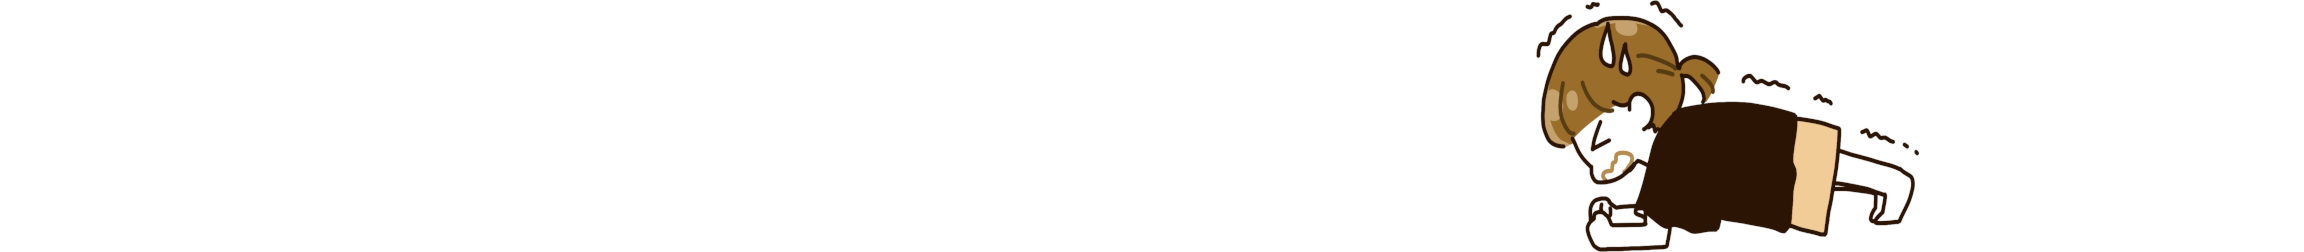
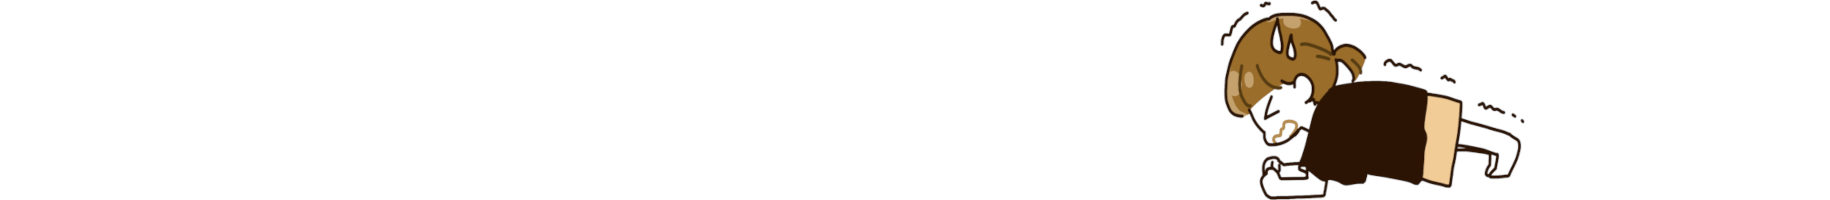
イラストとか修正

diff --git a/index.html b/index.html
@@ -32,14 +32,18 @@
                     </v-expansion-panel>
                     <v-expansion-panel>
                         <a href="https://www.ac-illust.com/main/detail.php?id=2275137&word=%E3%83%97%E3%83%A9%E3%83%B3%E3%82%AF%E3%80%80%E5%A5%B3%E6%80%A7"
-                            target="_blank">イラスト素材</a>
+                            target="_blank">イラスト素材せいじんさん</a>
                     </v-expansion-panel>
                 </v-expansion-panels>
             </v-navigation-drawer>
 
-            <div style="margin-left: auto;margin-top: 130px;"> © AMUS IT Support / AMU'S </div>
             <v-main>
                 <!-- メインコンテンツ  -->
+                <v-container>
+                    <v-row><v-spacer></v-spacer><v-col><v-sheet class="pa-2 ma-2">
+                                © AMUS IT Support / AMU'S
+                            </v-sheet></v-col></v-row>
+                </v-container>
                 <v-container class="bg-surface-variant">
                     <v-text-field v-model="sets" :disabled="loading" label="Sets" clearable></v-text-field>
                     <v-text-field v-model="seconds" :disabled="loading" label="Seconds" clearable></v-text-field>
